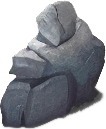
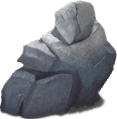
minerals updated

diff --git a/SonOfRobin.Core/Game/Grid/Cell.cs b/SonOfRobin.Core/Game/Grid/Cell.cs
@@ -228,36 +228,51 @@ namespace SonOfRobin
             return Vector2.Distance(cell.center, this.center);
         }
 
-        public void DrawDebugData(Group groupName)
+        public void DrawDebugData(Group groupName, bool drawCellData, bool drawPieceData)
         {
-            Helpers.DrawRectangleOutline(rect: this.rect, color: Color.White * 0.3f, borderWidth: 1);
+            SpriteFont font = SonOfRobinGame.FontPressStart2P5;
 
-            var colorForExtPropNames = new Dictionary<ExtBoardProps.Name, Color> {
+            // drawing cell ext colors
+
+            if (drawCellData)
+            {
+                Helpers.DrawRectangleOutline(rect: this.rect, color: Color.White * 0.3f, borderWidth: 1);
+
+                var colorForExtPropNames = new Dictionary<ExtBoardProps.Name, Color> {
                 { ExtBoardProps.Name.Sea, Color.Cyan },
                 { ExtBoardProps.Name.OuterBeach, Color.Red },
                 { ExtBoardProps.Name.BiomeSwamp, Color.Green },
                 // every name should have its color defined here
             };
 
-            foreach (var kvp in colorForExtPropNames)
-            {
-                ExtBoardProps.Name name = kvp.Key;
-                Color color = kvp.Value;
+                foreach (var kvp in colorForExtPropNames)
+                {
+                    ExtBoardProps.Name name = kvp.Key;
+                    Color color = kvp.Value;
 
-                if (this.grid.CheckIfContainsExtPropertyForCell(name: name, value: true, cellNoX: this.cellNoX, cellNoY: this.cellNoY)) SonOfRobinGame.SpriteBatch.Draw(SonOfRobinGame.WhiteRectangle, this.rect, SonOfRobinGame.WhiteRectangle.Bounds, color * 0.4f);
+                    if (this.grid.CheckIfContainsExtPropertyForCell(name: name, value: true, cellNoX: this.cellNoX, cellNoY: this.cellNoY)) SonOfRobinGame.SpriteBatch.Draw(SonOfRobinGame.WhiteRectangle, this.rect, SonOfRobinGame.WhiteRectangle.Bounds, color * 0.4f);
+                }
             }
 
-            SpriteFont font = SonOfRobinGame.FontPressStart2P5;
+            // drawing piece data
 
-            foreach (Sprite sprite in this.spriteGroups[groupName].Values)
+            if (drawPieceData)
             {
-                string spriteText = $"{sprite.id}\n{sprite.animPackage}\n{this.cellNoX},{this.cellNoY}\n{sprite.position.X},{sprite.position.Y}";
-                Helpers.DrawTextWithOutline(font: font, text: spriteText, pos: sprite.position, color: Color.White, outlineColor: Color.Black, outlineSize: 1);
+                foreach (Sprite sprite in this.spriteGroups[groupName].Values)
+                {
+                    string spriteText = $"{sprite.animPackage}\n{this.cellNoX},{this.cellNoY}\n{sprite.position.X},{sprite.position.Y}";
+                    Helpers.DrawTextWithOutline(font: font, text: spriteText, pos: new Vector2(sprite.colRect.Left, sprite.colRect.Top), color: Color.White, outlineColor: Color.Black, outlineSize: 1);
+                }
             }
 
-            string cellText = $"{this.cellNoX},{this.cellNoY}\n{this.xMin},{this.yMin}";
+            // drawing cell info
 
-            Helpers.DrawTextWithOutline(font: font, text: cellText, pos: new Vector2(this.xMin, this.yMin) + new Vector2(5, 5), color: Color.White, outlineColor: Color.Black, outlineSize: 1);
+            if (drawCellData)
+            {
+                string cellText = $"{this.cellNoX},{this.cellNoY}\n{this.xMin},{this.yMin}";
+
+                Helpers.DrawTextWithOutline(font: font, text: cellText, pos: new Vector2(this.xMin, this.yMin) + new Vector2(5, 5), color: Color.White, outlineColor: Color.Black, outlineSize: 1);
+            }
         }
 
         public void DrawBackground(bool drawSimulation, float opacity = 1f)

diff --git a/SonOfRobin.Core/Game/Pieces/Decoration.cs b/SonOfRobin.Core/Game/Pieces/Decoration.cs
@@ -7,9 +7,9 @@ namespace SonOfRobin
     public class Decoration : BoardPiece
     {
         public Decoration(World world, string id, AnimData.PkgName animPackage, PieceTemplate.Name name, AllowedTerrain allowedTerrain, Dictionary<byte, int> maxMassBySize, string readableName, string description, Category category,
-             byte animSize = 0, string animName = "default", bool blocksMovement = true, ushort minDistance = 0, ushort maxDistance = 100, int destructionDelay = 0, bool floatsOnWater = false, int generation = 0, byte stackSize = 1, bool canBePickedUp = false, Yield yield = null, int maxHitPoints = 1, bool fadeInAnim = false, bool ignoresCollisions = false, bool rotatesWhenDropped = false, bool movesWhenDropped = true, PieceSoundPack soundPack = null) :
+             byte animSize = 0, string animName = "default", bool blocksMovement = true, ushort minDistance = 0, ushort maxDistance = 100, int destructionDelay = 0, bool floatsOnWater = false, int generation = 0, byte stackSize = 1, bool canBePickedUp = false, Yield yield = null, int maxHitPoints = 1, bool fadeInAnim = false, bool ignoresCollisions = false, bool rotatesWhenDropped = false, bool movesWhenDropped = true, PieceSoundPack soundPack = null, AllowedDensity allowedDensity = null) :
 
-             base(world: world, id: id, animPackage: animPackage, animSize: animSize, animName: animName, blocksMovement: blocksMovement, ignoresCollisions: ignoresCollisions, minDistance: minDistance, maxDistance: maxDistance, name: name, destructionDelay: destructionDelay, allowedTerrain: allowedTerrain, floatsOnWater: floatsOnWater, maxMassBySize: maxMassBySize, generation: generation, stackSize: stackSize, canBePickedUp: canBePickedUp, yield: yield, maxHitPoints: maxHitPoints, fadeInAnim: fadeInAnim, readableName: readableName, description: description, category: category, activeState: State.Empty, rotatesWhenDropped: rotatesWhenDropped, movesWhenDropped: movesWhenDropped, soundPack: soundPack)
+             base(world: world, id: id, animPackage: animPackage, animSize: animSize, animName: animName, blocksMovement: blocksMovement, ignoresCollisions: ignoresCollisions, minDistance: minDistance, maxDistance: maxDistance, name: name, destructionDelay: destructionDelay, allowedTerrain: allowedTerrain, floatsOnWater: floatsOnWater, maxMassBySize: maxMassBySize, generation: generation, stackSize: stackSize, canBePickedUp: canBePickedUp, yield: yield, maxHitPoints: maxHitPoints, fadeInAnim: fadeInAnim, readableName: readableName, description: description, category: category, activeState: State.Empty, rotatesWhenDropped: rotatesWhenDropped, movesWhenDropped: movesWhenDropped, soundPack: soundPack, allowedDensity: allowedDensity)
         {
         }
 

diff --git a/SonOfRobin.Core/Game/Animation/AnimData.cs b/SonOfRobin.Core/Game/Animation/AnimData.cs
@@ -793,13 +793,12 @@ namespace SonOfRobin
             // "one-liners"
 
             AddFrameList(animPackage: PkgName.NoAnim, animSize: 0, frameList: ConvertImageToFrameList(atlasName: "no_anim", layer: 1, x: 0, y: 0, width: 0, height: 0));
-            AddFrameList(animPackage: PkgName.MineralsBig1, animSize: 0, frameList: ConvertImageToFrameList(atlasName: "minerals_big_1", layer: 1, scale: 0.75f));
-            AddFrameList(animPackage: PkgName.MineralsBig2, animSize: 0, frameList: ConvertImageToFrameList(atlasName: "minerals_big_2", layer: 1, scale: 0.75f));
-            AddFrameList(animPackage: PkgName.MineralsBig3, animSize: 0, frameList: ConvertImageToFrameList(atlasName: "minerals_big_3", layer: 1, scale: 0.6f));
-
-            AddFrameList(animPackage: PkgName.MineralsSmall1, animSize: 0, frameList: ConvertImageToFrameList(atlasName: "minerals_small_1", layer: 1, scale: 0.5f));
-            AddFrameList(animPackage: PkgName.MineralsSmall2, animSize: 0, frameList: ConvertImageToFrameList(atlasName: "minerals_small_2", layer: 1, scale: 0.5f));
-            AddFrameList(animPackage: PkgName.MineralsSmall3, animSize: 0, frameList: ConvertImageToFrameList(atlasName: "minerals_small_3", layer: 1, scale: 0.5f));
+            AddFrameList(animPackage: PkgName.MineralsBig1, animSize: 0, frameList: ConvertImageToFrameList(atlasName: "minerals_big_1", layer: 1, scale: 0.7f, depthPercent: 0.6f));
+            AddFrameList(animPackage: PkgName.MineralsBig2, animSize: 0, frameList: ConvertImageToFrameList(atlasName: "minerals_big_2", layer: 1, scale: 0.55f, depthPercent: 0.6f));
+            AddFrameList(animPackage: PkgName.MineralsBig3, animSize: 0, frameList: ConvertImageToFrameList(atlasName: "minerals_big_3", layer: 1, scale: 0.7f, depthPercent: 0.6f));
+            AddFrameList(animPackage: PkgName.MineralsSmall1, animSize: 0, frameList: ConvertImageToFrameList(atlasName: "minerals_small_1", layer: 1, scale: 0.5f, depthPercent: 0.45f));
+            AddFrameList(animPackage: PkgName.MineralsSmall2, animSize: 0, frameList: ConvertImageToFrameList(atlasName: "minerals_small_2", layer: 1, scale: 0.35f, depthPercent: 0.35f));
+            AddFrameList(animPackage: PkgName.MineralsSmall3, animSize: 0, frameList: ConvertImageToFrameList(atlasName: "minerals_small_3", layer: 1, scale: 0.5f, depthPercent: 0.45f));
 
             AddFrameList(animPackage: PkgName.WaterLily1, animSize: 0, frameList: ConvertImageToFrameList(atlasName: "tile_19ba32a6", layer: 0, x: 384, y: 64, width: 32, height: 32));
             AddFrameList(animPackage: PkgName.WaterLily2, animSize: 0, frameList: ConvertImageToFrameList(atlasName: "tile_19ba32a6", layer: 0, x: 416, y: 0, width: 32, height: 32));

diff --git a/SonOfRobin.Core/Game/Scenes/Menu/_MenuTemplate.cs b/SonOfRobin.Core/Game/Scenes/Menu/_MenuTemplate.cs
@@ -503,6 +503,7 @@ namespace SonOfRobin
                         new Selector(menu: menu, name: "show fruit rects", valueDict: new Dictionary<object, object> { { true, "on" }, { false, "off" } }, targetObj: preferences, propertyName: "debugShowFruitRects");
                         new Selector(menu: menu, name: "show sprite rects", valueDict: new Dictionary<object, object> { { true, "on" }, { false, "off" } }, targetObj: preferences, propertyName: "debugShowRects");
                         new Selector(menu: menu, name: "show cells", valueDict: new Dictionary<object, object> { { true, "on" }, { false, "off" } }, targetObj: preferences, propertyName: "debugShowCellData");
+                        new Selector(menu: menu, name: "show piece data", valueDict: new Dictionary<object, object> { { true, "on" }, { false, "off" } }, targetObj: preferences, propertyName: "debugShowPieceData");
                         new Selector(menu: menu, name: "show animal targets", valueDict: new Dictionary<object, object> { { true, "on" }, { false, "off" } }, targetObj: preferences, propertyName: "debugShowAnimalTargets");
                         new Selector(menu: menu, name: "disable player panel", valueDict: new Dictionary<object, object> { { true, "on" }, { false, "off" } }, targetObj: preferences, propertyName: "debugDisablePlayerPanel");
                         new Selector(menu: menu, name: "show all stat bars", valueDict: new Dictionary<object, object> { { true, "on" }, { false, "off" } }, targetObj: preferences, propertyName: "debugShowStatBars");

diff --git a/SonOfRobin.Core/Game/Animation/Sprite.cs b/SonOfRobin.Core/Game/Animation/Sprite.cs
@@ -837,7 +837,7 @@ namespace SonOfRobin
             AnimFrame frame = shadowSprite.frame;
 
             var flatShadowNames = new List<AnimData.PkgName> {
-                AnimData.PkgName.WoodLogRegular, AnimData.PkgName.WoodLogHard, AnimData.PkgName.Stone, AnimData.PkgName.WoodPlank, AnimData.PkgName.IronBar, AnimData.PkgName.Clay, AnimData.PkgName.Hole, AnimData.PkgName.Granite, AnimData.PkgName.BeltBig, AnimData.PkgName.HumanSkeleton };
+                AnimData.PkgName.WoodLogRegular, AnimData.PkgName.WoodLogHard, AnimData.PkgName.Stone, AnimData.PkgName.WoodPlank, AnimData.PkgName.IronBar, AnimData.PkgName.Clay, AnimData.PkgName.Hole, AnimData.PkgName.Granite, AnimData.PkgName.BeltBig, AnimData.PkgName.HumanSkeleton, AnimData.PkgName.MineralsSmall2 };
 
             bool flatShadow = flatShadowNames.Contains(shadowSprite.boardPiece.sprite.animPackage) || shadowSprite.rotation != 0;
 

diff --git a/SonOfRobin.Core/Game/Pieces/PiecesHelpers/_PieceTemplate.cs b/SonOfRobin.Core/Game/Pieces/PiecesHelpers/_PieceTemplate.cs
@@ -809,7 +809,7 @@ namespace SonOfRobin
                        });
 
                         return new Decoration(name: templateName, world: world, id: id, animPackage: animPkg, allowedTerrain: allowedTerrain, category: BoardPiece.Category.Stone,
-                            minDistance: 0, maxDistance: 500, maxMassBySize: null, generation: generation, yield: yield, maxHitPoints: 100, readableName: "big minerals", description: "Can be mined for stone.", movesWhenDropped: false);
+                            minDistance: 0, maxDistance: 500, maxMassBySize: null, generation: generation, yield: yield, maxHitPoints: 100, readableName: "big minerals", description: "Can be mined for stone.", movesWhenDropped: false, allowedDensity: new AllowedDensity(radious: 130, maxNoOfPiecesSameName: 0));
                     }
 
                 case Name.Backlight:

diff --git a/SonOfRobin.Core/Game/Grid/_Grid.cs b/SonOfRobin.Core/Game/Grid/_Grid.cs
@@ -1044,12 +1044,16 @@ namespace SonOfRobin
             return visibleSprites.Count;
         }
 
-        public void DrawDebugData()
+        public void DrawDebugData(bool drawCellData, bool drawPieceData)
         {
+            if (!drawCellData && !drawPieceData) return;
+
             var visibleCells = this.GetCellsInsideRect(this.world.camera.viewRect);
 
             foreach (Cell cell in visibleCells)
-            { cell.DrawDebugData(groupName: Cell.Group.ColMovement); }
+            {
+                cell.DrawDebugData(groupName: Cell.Group.All, drawCellData: drawCellData, drawPieceData: drawPieceData);
+            }
         }
 
         private static int FindMatchingCellInSingleAxis(int position, int cellLength)

diff --git a/SonOfRobin.Core/Game/Pieces/PiecesHelpers/_PieceCreationData.cs b/SonOfRobin.Core/Game/Pieces/PiecesHelpers/_PieceCreationData.cs
@@ -67,8 +67,12 @@ namespace SonOfRobin
                      new PieceCreationData(name: PieceTemplate.Name.SoundLava, multiplier: 0.8f, maxAmount: -1, doNotReplenish: true),
                 };
 
+            //{ // for testing creation of selected pieces
+            //    List<PieceTemplate.Name> debugNamesToCheck = new List<PieceTemplate.Name> { PieceTemplate.Name.MineralsSmall, PieceTemplate.Name.MineralsBig };
+            //    dataList = dataList.Where(record => debugNamesToCheck.Contains(record.name)).ToList();
+            //}
+
             return dataList;
         }
     }
-
 }

diff --git a/SonOfRobin.Core/Game/Scenes/World.cs b/SonOfRobin.Core/Game/Scenes/World.cs
@@ -1094,8 +1094,8 @@ namespace SonOfRobin
             // drawing sprites
             var noOfDisplayedSprites = this.Grid.DrawSprites(camera: this.camera, blockingLightSpritesList: this.blockingLightSpritesList);
 
-            // drawing grid cells
-            if (Preferences.debugShowCellData) this.Grid.DrawDebugData();
+            // drawing debug cell data
+            this.Grid.DrawDebugData(drawCellData: Preferences.debugShowCellData, drawPieceData: Preferences.debugShowPieceData);
 
             // drawing light and darkness
             this.DrawLightAndDarkness(lightSprites);

diff --git a/SonOfRobin.Core/Game/Preferences.cs b/SonOfRobin.Core/Game/Preferences.cs
@@ -276,6 +276,7 @@ namespace SonOfRobin
         // debug variables should not be saved to preferences file
         public static bool debugShowRects = false;
         public static bool debugShowCellData = false;
+        public static bool debugShowPieceData = false;
         public static bool debugShowAnimalTargets = false;
         public static bool debugShowStates = false;
         public static bool debugShowStatBars = false;
